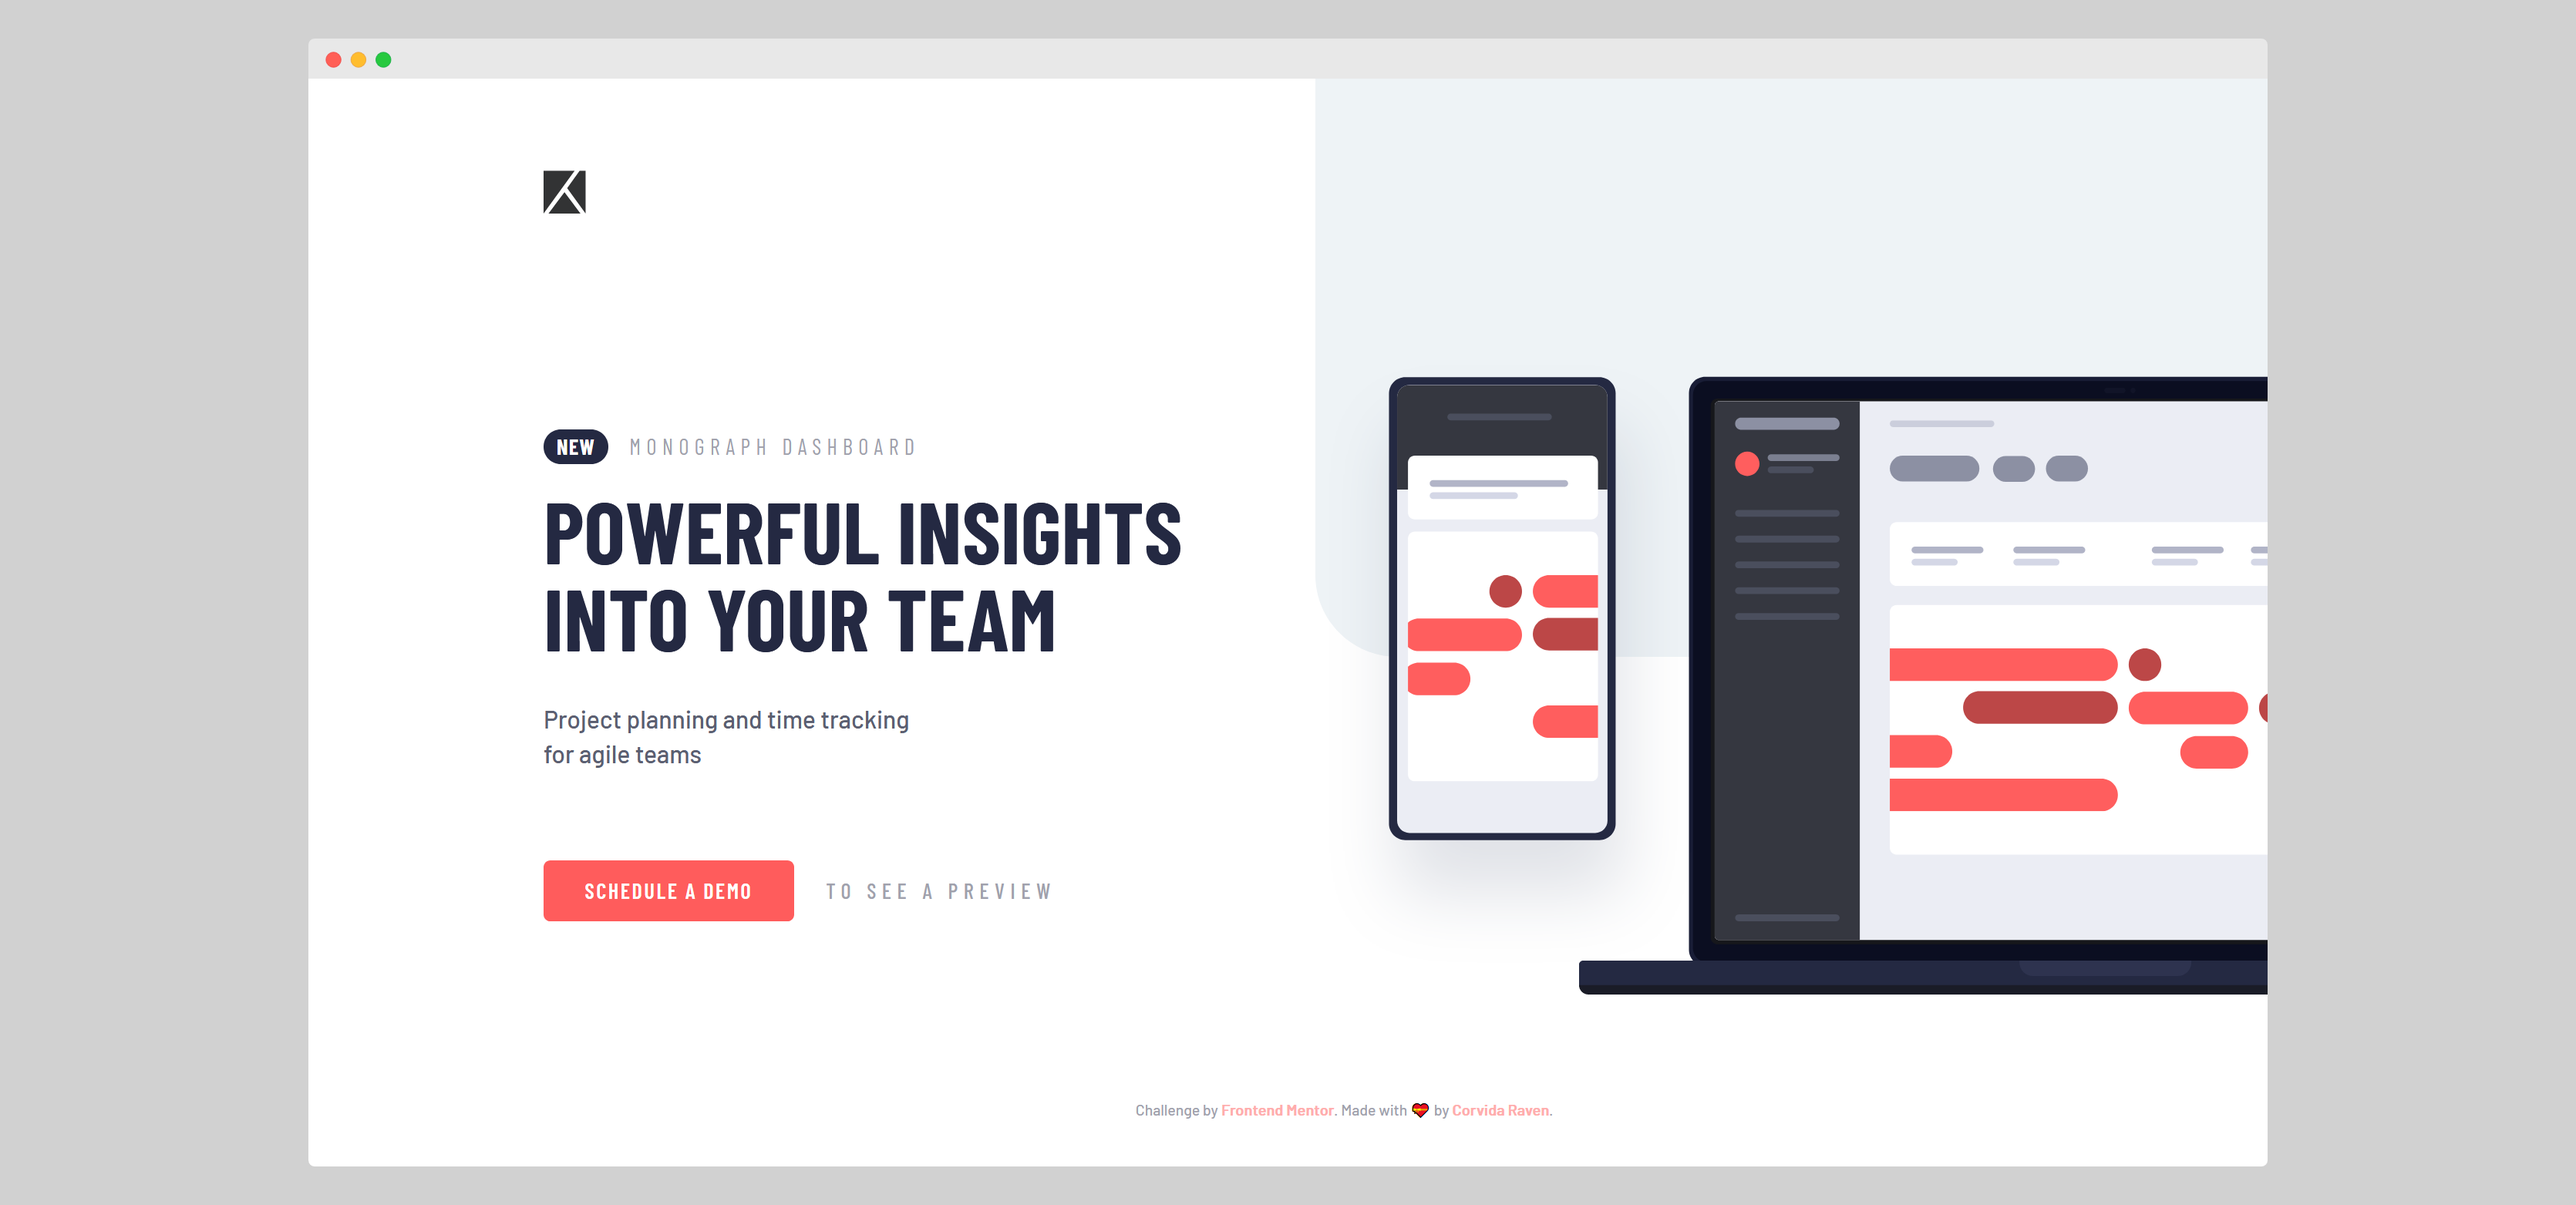
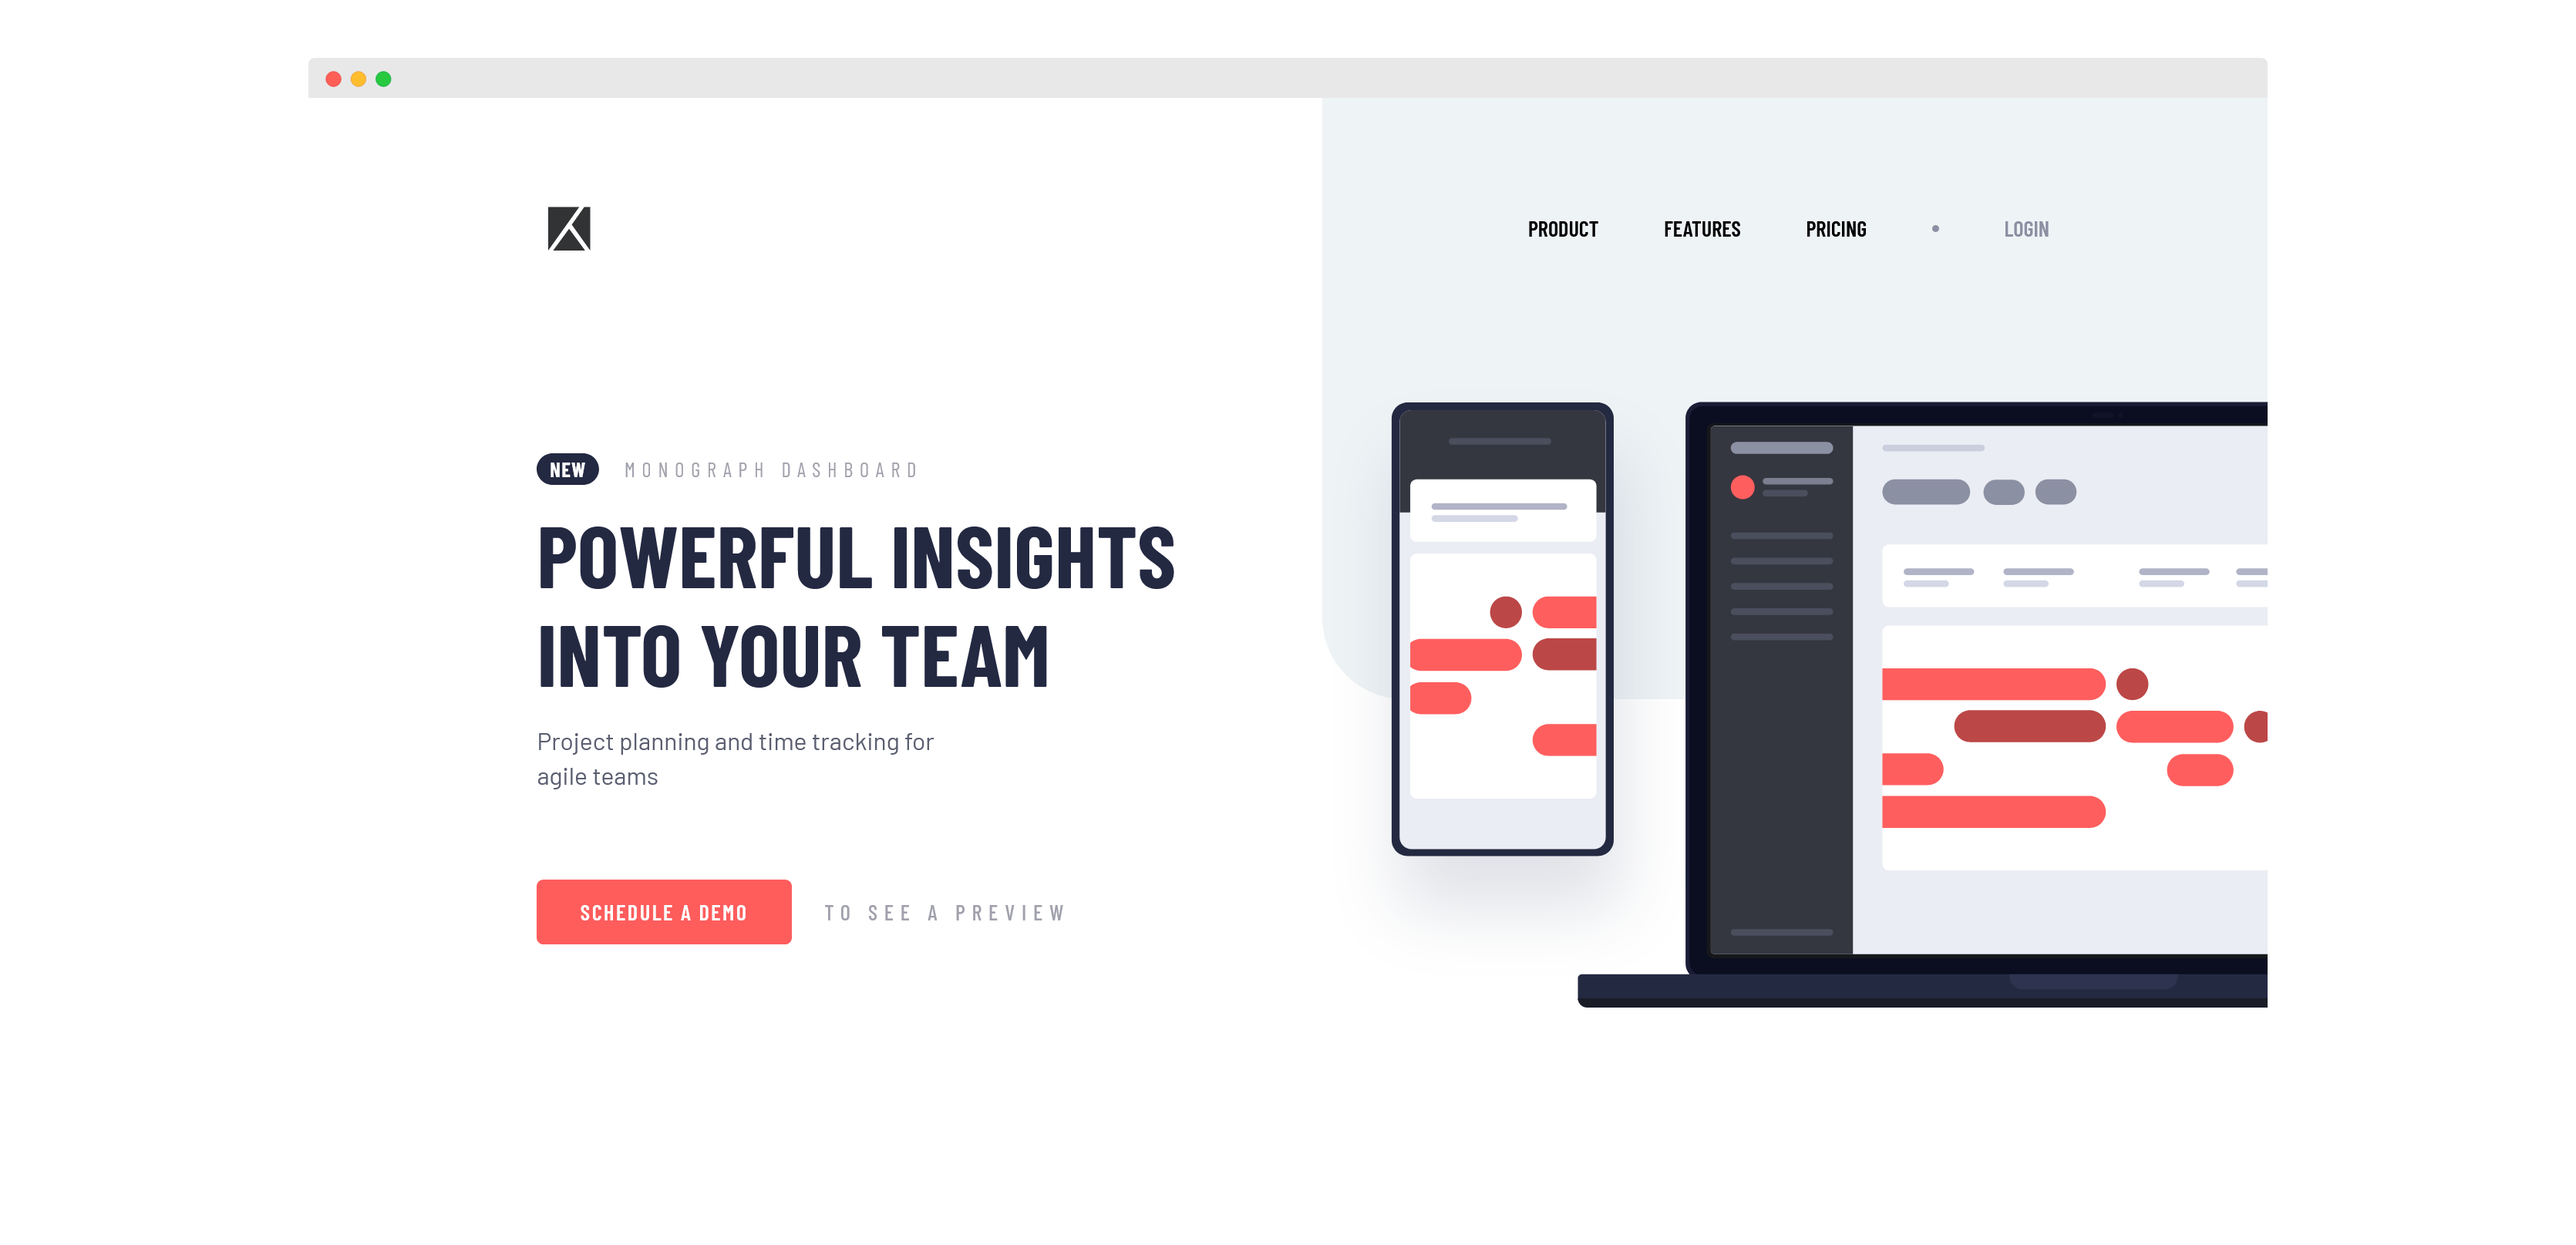
Update README with V2 learning

diff --git a/project-tracking-component/README.md b/project-tracking-component/README.md
@@ -53,15 +53,16 @@ There was a lot to unpack for the desktop portion of this challenge after starti
 
 ### Feedback Request
 
-This challenge has really piqued my interest in digging deeper into different ways to position layouts. Any resources that were helpful to you around this topic would greatly appreciated!
+This challenge has really piqued my interest in digging deeper into different ways to position images. Any resources that were helpful to you around this topic would greatly appreciated!
 
 ### Continued development
 
-More practice on posiitioning elements to get faster and comfortable with doing so. Also intend to work on using responsive typography within these projects. I usually don't becase I'm so focused on trying to get the exact design. It's tedious and nearly impossible to calculate how things will look beyond the challenge's breakpoints. 
+**6/29 Update** - I came back to this solution to fix a few issues. To start, I didn't need to use any positioning properties like I initially thought (and sadly pursued). Good old flexbox and an `img` tag was a much easier solution. `Transform` was key in offsetting the image using `scale` and `translate` values. All in all, my solution is cleaner with better cross-browser compatibility. 
+~~More practice on posiitioning elements to get faster and comfortable with doing so. Also intend to work on using responsive typography within these projects. I usually don't becase I'm so focused on trying to get the exact design. It's tedious and nearly impossible to calculate how things will look beyond the challenge's breakpoints.~~
 
-In the future, I think I will still continue to getting an exact match with the design and start converting pixel values into their corresponding responsive units. What I hope to accomplish with this is design accuracy at the challenge breakpoints, while still allowing the flexibility of a fulyl responsive design.
+~~In the future, I think I will still continue to getting an exact match with the design and start converting pixel values into their corresponding responsive units. What I hope to accomplish with this is design accuracy at the challenge breakpoints, while still allowing the flexibility of a fulyl responsive design.~~
 
-At some point in the future I may come back to this project to do more code cleanup in the stylesheet. There were a lot of properties to work with, especially for the mobile menu and just looking at the stylesheet for this project feels overwhelming. 😩 Still proud of myself for getting this done in 2 days. 
+~~At some point in the future I may come back to this project to do more code cleanup in the stylesheet. There were a lot of properties to work with, especially for the mobile menu and just looking at the stylesheet for this project feels overwhelming. 😩 Still proud of myself for getting this done in 2 days.~~
 
 ### Useful resources
 
@@ -71,6 +72,6 @@ At some point in the future I may come back to this project to do more code clea
 
 
 ## Author
-- Website - [Corvida Raven](https://shegeeks.net)
+- Website - [SheGeeks.net](https://shegeeks.net)
 - Frontend Mentor - [@SheGeeks](https://www.frontendmentor.io/profile/shegeeks)
 - Twitter - [@Corvida](https://www.twitter.com/corvida)
